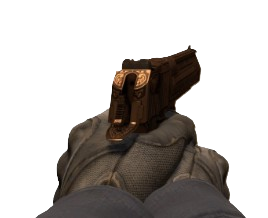
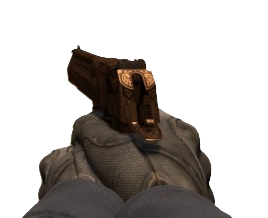
update

diff --git a/04 - TypeScript/35 - TeamProject/Mikhail&Maya/Shooting-game/src/Controllers/weaponCreate.ts b/04 - TypeScript/35 - TeamProject/Mikhail&Maya/Shooting-game/src/Controllers/weaponCreate.ts
@@ -9,6 +9,10 @@ export function weaponCreate(weaponId:string,root:HTMLElement){
             case 'akImage':
             weapon=new Weapon('/src/images/weapons/ak47Game.png','/src/audio/pew.m4a',weaponId);
             break;
+            case 'm16Image':
+            weapon=new Weapon('/src/images/weapons/m16Game.png','/src/audio/pew.m4a',weaponId);
+            break;
+            
         default: console.error("didnt choose weapon");
       }
       if(weapon)

diff --git a/04 - TypeScript/35 - TeamProject/Mikhail&Maya/Shooting-game/src/View/homescreen.ts b/04 - TypeScript/35 - TeamProject/Mikhail&Maya/Shooting-game/src/View/homescreen.ts
@@ -6,7 +6,7 @@ export function renderHomeScreen(weapon:Weapon,root:HTMLElement) {
     <div class="curtains"></div>
 
 
-    <div class="weaponBox" style="width:150px;height:150px;left:0;bottom:0;position:absolute;">
+    <div class="weaponBox" style="width:150px;height:150px;right:0;bottom:0;position:absolute;">
     <img src="${weapon.image}" class="${weapon.name}" style="height:100%;width:100%;">
     </div>
     </div>`
